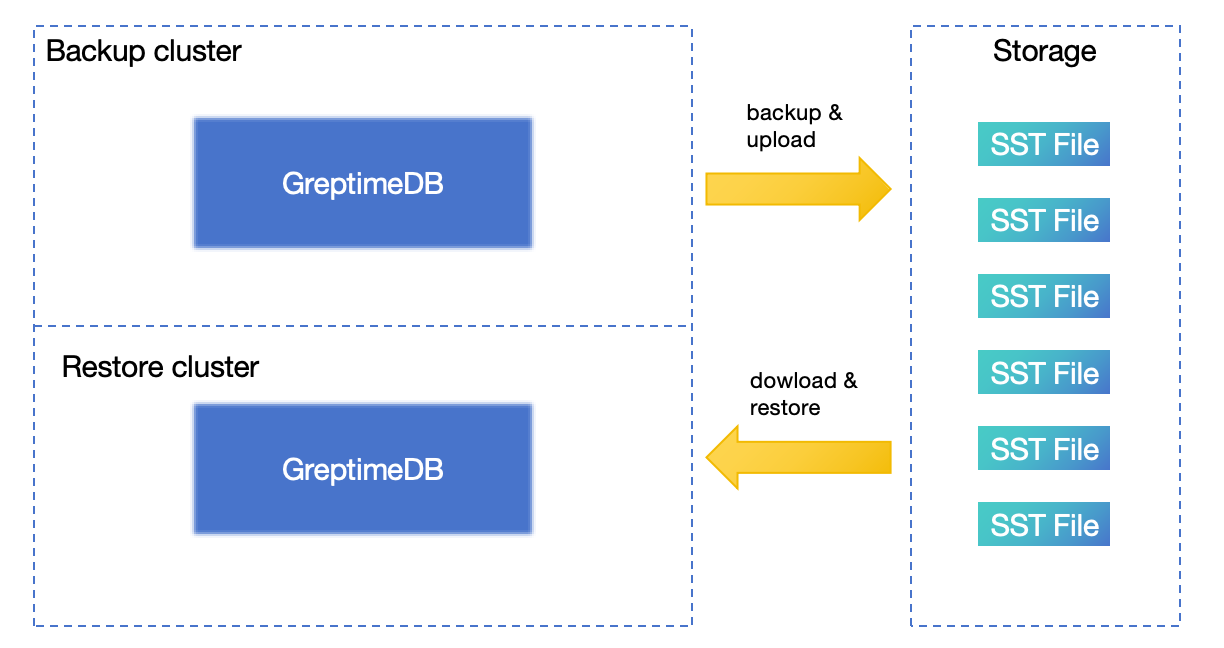
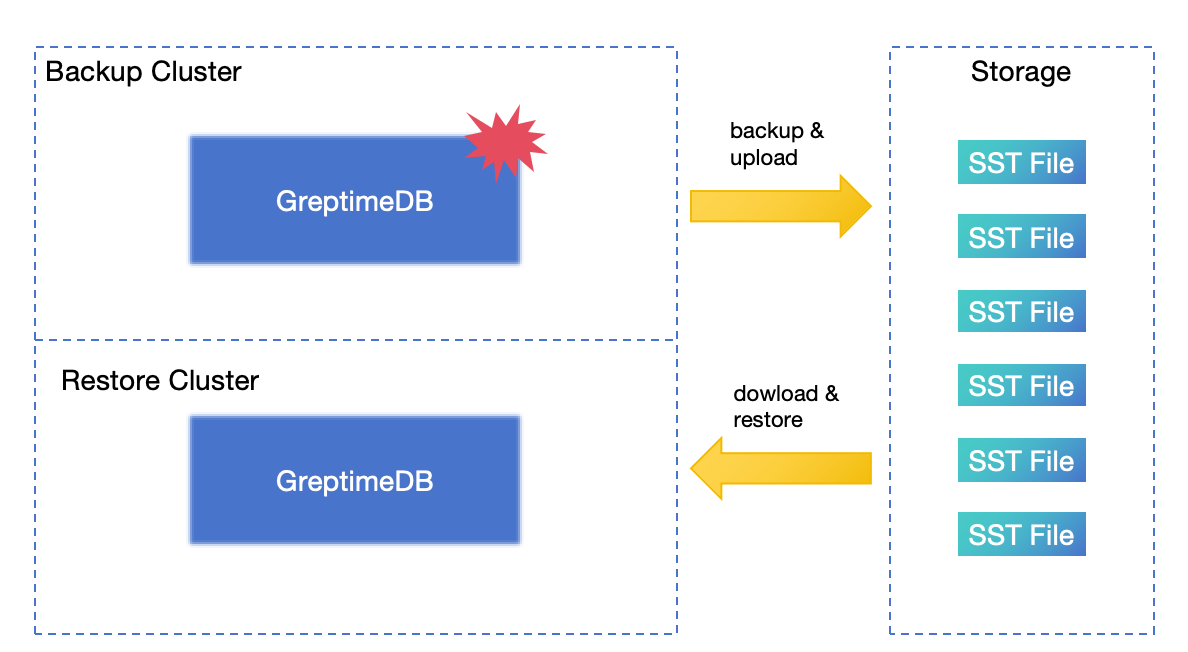
docs: add standalone solution

diff --git a/docs/nightly/en/user-guide/operations/disaster-recovery/overview.md b/docs/nightly/en/user-guide/operations/disaster-recovery/overview.md
@@ -30,7 +30,7 @@ Before digging into the specific DR solution, let's explain the architecture of 
 GreptimeDB is designed with a cloud-native architecture based on storage-compute separation：
 * **Frontend**:  the ingestion and query service layer, which forwards requests to Datanode and processes, and merges responses from Datanode.
 * **Datanode**:  the storage layer of GreptimeDB, and is a LSM storage engine. Region is the basic unit for storing and scheduling data in Datanode. A region is a table partition, a collection of data rows. The data in region is saved into Object Storage(such as AWS S3). Unflushed Memtable data is written into WAL and can be recovered in DA.
-* **WAL**: persists the unflushed Memtable data in memory. It will be truncated when the Memtable is flushed into SSTable files.
+* **WAL**: persists the unflushed Memtable data in memory. It will be truncated when the Memtable is flushed into SSTable files. It can be local disk-based(local WAL) or Kafka cluster-based(remote WAL).
 * **Object Storage**: persists the SSTable data and index.
 
 The GreptimeDB stores data in object storage such as [AWS S3](https://docs.aws.amazon.com/AmazonS3/latest/userguide/DataDurability.html) or its compatible services, which is designed to provide 99.999999999% durability and 99.99% availability of objects over a given year. And services such as S3 provide [replications in Single-Region or Cross-Region](https://docs.aws.amazon.com/AmazonS3/latest/userguide/replication.html), which is naturally capable of DR.
@@ -46,13 +46,24 @@ When a cluster encounters a disaster, you can restore the cluster from backup da
 
 ## Solutions introduction
 
-### Standalone DR discussion
+### DR solution for Standalone
+If the Standalone is running on the local disk for WAL and data, then:
+* RPO: depends on backup frequency.
+* RTO: doesn't make sense in standalone mode, mostly depends on your failure response time and the operational infrastructure.
+
+But if running the Standalone with remote WAL and object storage, there is a better DR solution:
+![DR-Standalone](/DR-Standalone.png)
+
+Write the WAL to the Kafka cluster and store the data in object storage, so the database itself is stateless. In the event of a disaster affecting the standalone database, you can restore it using the remote WAL and object storage. This solution allows for an RPO of zero, and an RTO measured in minutes.
 
 ### DR solution based on Dual Active-Standby 
 
+
 ### DR solution  based on multiple replicas in a single cluster
 
+
 ### DR solution based on BR
+
 
 ### Solution Comparison
 
